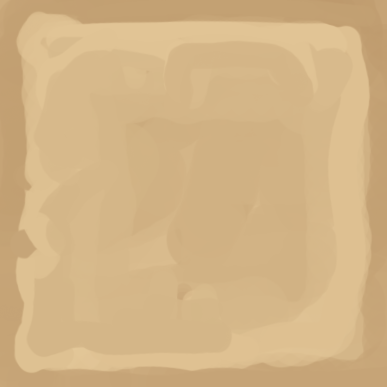
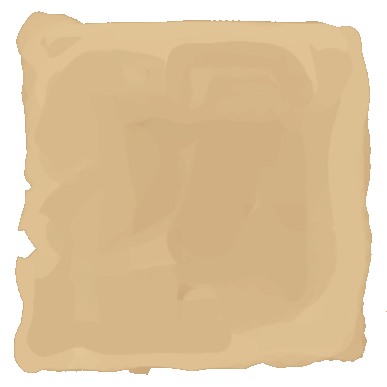
expand uiElem to handle resizing

Changed region(s): [[0.0, 0.0, 1.0, 1.0]]

diff --git a/src/viewModel/ui/EndTurnButton.ts b/src/viewModel/ui/EndTurnButton.ts
@@ -1,18 +1,17 @@
 import * as PIXI from 'pixi.js';
 
-import { EndTurnAction } from '../controller/actions/EndTurnAction';
-import { IGuiElem } from './IGuiElem';
-import { GameState } from '../GameState';
-import { StateChangeEvent } from '../controller/events/StateChangeEvent';
+import { EndTurnAction } from '../../controller/actions/EndTurnAction';
+import { GameState } from '../../GameState';
+import { StateChangeEvent } from '../../controller/events/StateChangeEvent';
+import { UiElementWithBackground } from './UiElementWithBackground';
 
-export class EndTurnButton implements IGuiElem {
+export class EndTurnButton extends UiElementWithBackground {
   pixiElem: PIXI.Container;
   button: PIXI.Text;
 
   constructor() {
-    this.pixiElem = new PIXI.Container();
+    super("Assets/Images/brownButton.png", 200, 50);
     this.button = this.createButton();
-    this.pixiElem.addChild(this.createBackground());
     this.pixiElem.addChild(this.button);
     this.pixiElem.position.set(680, 40);
     GameState.emitter.addEventListener(StateChangeEvent.type, () => this.updateText())
@@ -25,13 +24,6 @@ export class EndTurnButton implements IGuiElem {
     button.on("click", () => new EndTurnAction().execute())
     button.anchor.set(0.5,0.5);
     return button;
-  }
-
-  private createBackground() {
-    const sprite = PIXI.Sprite.from("Assets/Images/brownButton.png");
-    sprite.anchor.set(0.5,0.5);
-    sprite.scale.set(0.2,0.15);
-    return sprite;
   }
 
   private updateText() {

diff --git a/src/viewModel/ui/SelectedMonsterInfo.ts b/src/viewModel/ui/SelectedMonsterInfo.ts
@@ -1,18 +1,17 @@
 import * as PIXI from 'pixi.js';
 
-import { GameState } from '../GameState';
-import { IGuiElem } from './IGuiElem';
-import { StateChangeEvent } from '../controller/events/StateChangeEvent';
+import { GameState } from '../../GameState';
+import { StateChangeEvent } from '../../controller/events/StateChangeEvent';
+import { UiElementWithBackground } from './UiElementWithBackground';
 
-export class SelectedMonsterInfo implements IGuiElem {
+export class SelectedMonsterInfo extends UiElementWithBackground {
   pixiElem: PIXI.Container;
   textBox: PIXI.Text;
 
   constructor() {
-    this.pixiElem = new PIXI.Container();
+    super("Assets/Images/parchment.png", 270, 200);
     this.pixiElem.position.set(135,505)
     this.textBox = this.createTextBox();
-    this.pixiElem.addChild(this.createBackground());
     this.pixiElem.addChild(this.textBox);
     this.setInfo();
     GameState.emitter.addEventListener(StateChangeEvent.type,
@@ -23,13 +22,6 @@ export class SelectedMonsterInfo implements IGuiElem {
     const textBox = new PIXI.Text('');
     textBox.anchor.set(0.5,0.5);
     return textBox;
-  }
-
-  private createBackground() {
-    const sprite = PIXI.Sprite.from("Assets/Images/parchment.png")
-    sprite.anchor.set(0.5,0.5);
-    sprite.scale.set(0.7,0.5);
-    return sprite;
   }
 
   private setInfo() {

diff --git a/src/viewModel/ui/ui.ts b/src/viewModel/ui/ui.ts
@@ -2,12 +2,12 @@ import * as PIXI from 'pixi.js';
 
 import { SelectedMonsterInfo } from './SelectedMonsterInfo';
 import { SelectedMonsterMarking } from './SelectedMonsterMarking';
-import { GameState } from '../GameState';
+import { GameState } from '../../GameState';
 import { EndTurnButton } from './EndTurnButton';
-import { tileSize, Position } from './Position';
-import { MonsterAddEvent } from '../controller/events/MonsterAddEvent';
-import { MonsterRemoveEvent } from '../controller/events/MonsterRemoveEvent';
-import { Monster } from './Monster';
+import { tileSize, Position } from '../Position';
+import { MonsterAddEvent } from '../../controller/events/MonsterAddEvent';
+import { MonsterRemoveEvent } from '../../controller/events/MonsterRemoveEvent';
+import { Monster } from '../Monster';
 import { ActionPreviewMarking } from './ActionPreviewMarking';
 import { MapMoveEvent } from 'controller/events/MapMoveEvent';
 import { Design } from './Design';

diff --git a/src/viewModel/ui/UiElementWithBackground.ts b/src/viewModel/ui/UiElementWithBackground.ts
@@ -1,0 +1,28 @@
+import * as PIXI from 'pixi.js';
+
+import { GuiElem } from "./GuiElem";
+
+export class UiElementWithBackground extends GuiElem {
+    pixiElem: PIXI.Container;
+
+    constructor(pathToSprite: string, width: number, height: number) {
+        super();
+        this.pixiElem = new PIXI.Container();
+        this.pixiElem.addChild(this.createBackground(pathToSprite, width, height));
+        
+    }
+
+    private createBackground(path: string, width: number, height: number) {
+        const sprite = PIXI.Sprite.from(path);
+        sprite.anchor.set(0.5,0.5);
+        sprite.texture.addListener("update", () => this.scale(sprite, width, height));
+        return sprite;
+    }
+
+    private scale(sprite: PIXI.Sprite, width: number, height: number) {
+        sprite.scale.x = width / sprite.width;
+        sprite.scale.y = height / sprite.height;
+        sprite.texture.removeListener("update");
+    }
+
+}

diff --git a/src/viewModel/ui/SelectedMonsterMarking.ts b/src/viewModel/ui/SelectedMonsterMarking.ts
@@ -1,16 +1,17 @@
 import * as PIXI from 'pixi.js'
 
-import { GameState } from '../GameState'
-import { IGuiElem } from './IGuiElem';
-import { StateChangeEvent } from '../controller/events/StateChangeEvent';
-import { selectionGlow } from './utils/filters';
-import { Monster } from './Monster';
+import { GameState } from '../../GameState'
+import { GuiElem } from './GuiElem';
+import { StateChangeEvent } from '../../controller/events/StateChangeEvent';
+import { selectionGlow } from '../utils/filters';
+import { Monster } from '../Monster';
 
-export class SelectedMonsterMarking implements IGuiElem {
+export class SelectedMonsterMarking extends GuiElem {
   pixiElem: PIXI.Sprite;
   currentMonster: Monster;
 
   constructor() {
+    super();
     this.pixiElem = this.createSprite();
     this.markSelectedMonster();
     GameState.emitter.addEventListener(StateChangeEvent.type,

diff --git a/src/viewModel/ui/ActionPreviewMarking.ts b/src/viewModel/ui/ActionPreviewMarking.ts
@@ -1,12 +1,12 @@
 import * as PIXI from 'pixi.js'
 
-import { GameState } from '../GameState'
-import { IGuiElem } from './IGuiElem';
-import { StateChangeEvent } from '../controller/events/StateChangeEvent';
+import { GameState } from '../../GameState'
+import { GuiElem } from './GuiElem';
+import { StateChangeEvent } from '../../controller/events/StateChangeEvent';
 import { ActionPreviewEvent } from 'controller/events/ActionPreviewEvent';
 import { Action } from 'controller/actions/Action';
 
-export class ActionPreviewMarking implements IGuiElem {
+export class ActionPreviewMarking implements GuiElem {
   pixiElem: PIXI.Sprite;
 
   constructor() {

diff --git a/src/viewModel/Monster.ts b/src/viewModel/Monster.ts
@@ -1,14 +1,14 @@
 import * as PIXI from 'pixi.js';
 
 import { Position } from "./Position";
-import { IGuiElem } from "./IGuiElem";
+import { GuiElem } from "./ui/GuiElem";
 import { ValueWithRange } from './utils/ValueWithRange';
 import { ElementSignature } from './utils/Element';
 import { GameState } from 'GameState';
 import { MonsterHoverEvent } from 'controller/events/MonsterHoverEvent';
 import { hoverGlow } from './utils/filters';
 
-export class Monster implements IGuiElem {
+export class Monster implements GuiElem {
     private static idCounter = 0;
     private static displayOffset = -6;
     

diff --git a/src/viewModel/ui/Design.ts b/src/viewModel/ui/Design.ts
@@ -1,15 +1,15 @@
 import * as PIXI from 'pixi.js';
 
-import { Position } from "./Position";
-import { IGuiElem } from "./IGuiElem";
-import { width } from '../index';
+import { GuiElem } from "./GuiElem";
+import { width } from '../../index';
 
-export class Design implements IGuiElem{
+export class Design extends GuiElem{
     name:string;
     pixiElem: PIXI.Sprite;
     
 
     constructor (name: string, baseDesign: string){
+        super();
         this.name = name;
         this.pixiElem = PIXI.Sprite.from(baseDesign);
         

diff --git a/src/viewModel/Tile.ts b/src/viewModel/Tile.ts
@@ -1,12 +1,12 @@
 import * as PIXI from 'pixi.js'
 
 import { TileData } from "./utils/map";
-import { IGuiElem } from "./IGuiElem";
+import { GuiElem } from "./ui/GuiElem";
 import { tileSize, Position } from "./Position";
 import { tileSelected, tileClicked, tileHover } from "controller/Input";
 import { ElementSignature } from './utils/Element';
 
-export class Tile implements IGuiElem {
+export class Tile implements GuiElem {
     pixiElem: PIXI.Container;
     private terrain: PIXI.Sprite;
     private slime: PIXI.Sprite;

diff --git a/src/viewModel/TileMap.ts b/src/viewModel/TileMap.ts
@@ -1,13 +1,13 @@
 import * as PIXI from 'pixi.js'
 
 import { createMapData, neighbors as getNeighbors } from './utils/map'
-import { IGuiElem } from './IGuiElem';
+import { GuiElem } from './ui/GuiElem';
 import { Position } from "./Position";
 import { HashMap } from 'utils/HashMap';
 import { Tile } from './Tile';
 import { ElementSignature } from './utils/Element';
 
-export class TileMap implements IGuiElem {
+export class TileMap implements GuiElem {
   pixiElem: PIXI.Container;
   tiles: HashMap<Position, Tile>;
 

diff --git a/src/index.ts b/src/index.ts
@@ -1,5 +1,5 @@
 import { Application } from 'pixi.js';
-import { Ui } from './viewModel/ui';
+import { Ui } from './viewModel/ui/ui';
 import { MapMoveEvent } from 'controller/events/MapMoveEvent';
 
 export const width = 800;

diff --git a/src/viewModel/ui/GuiElem.ts b/src/viewModel/ui/GuiElem.ts
@@ -1,0 +1,3 @@
+export abstract class GuiElem {
+  abstract pixiElem: PIXI.Container;
+}
